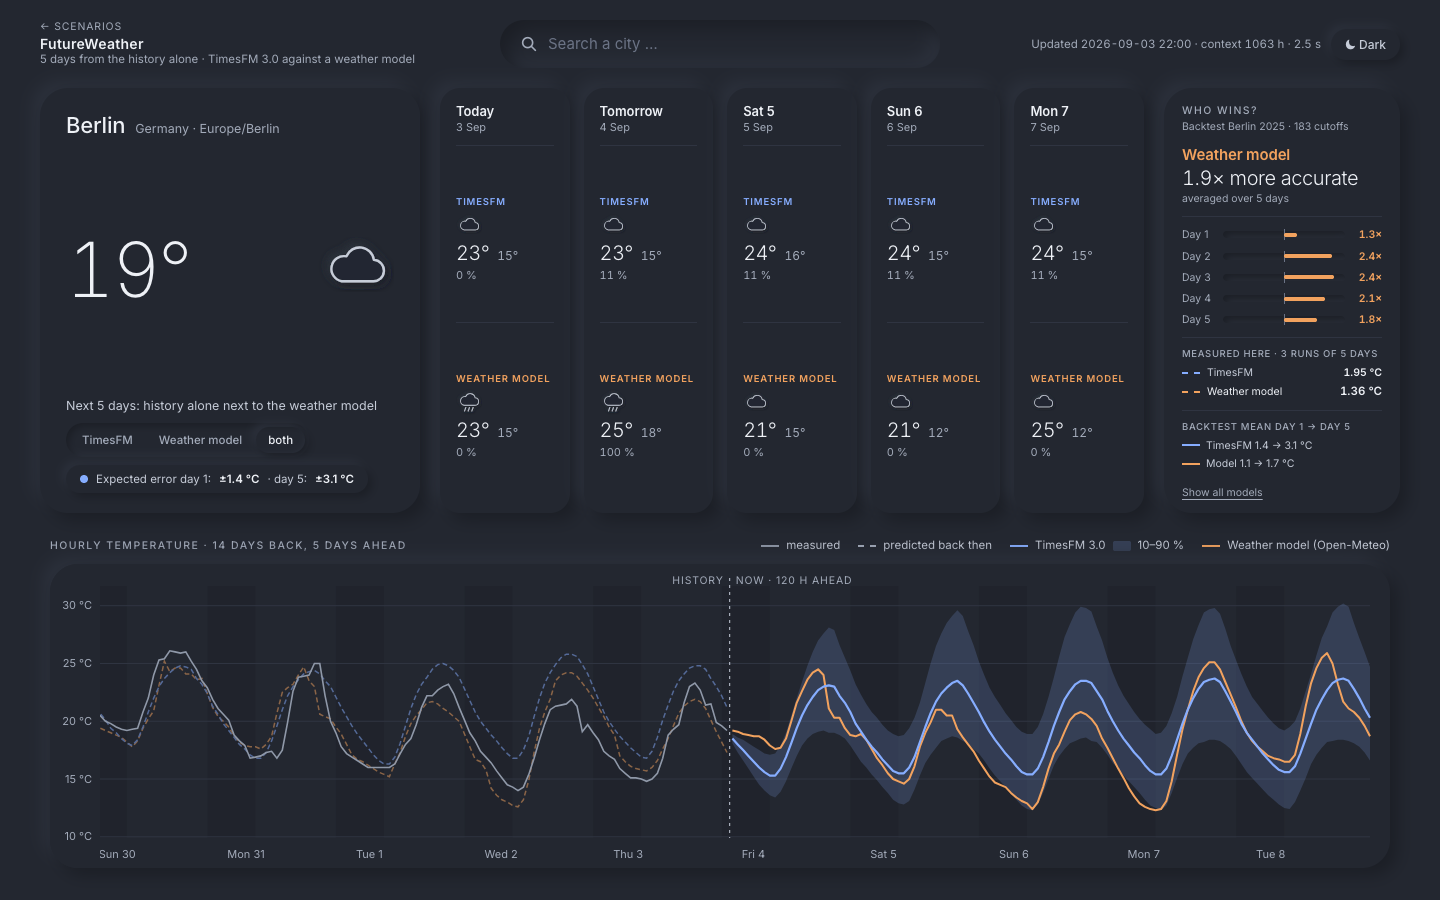
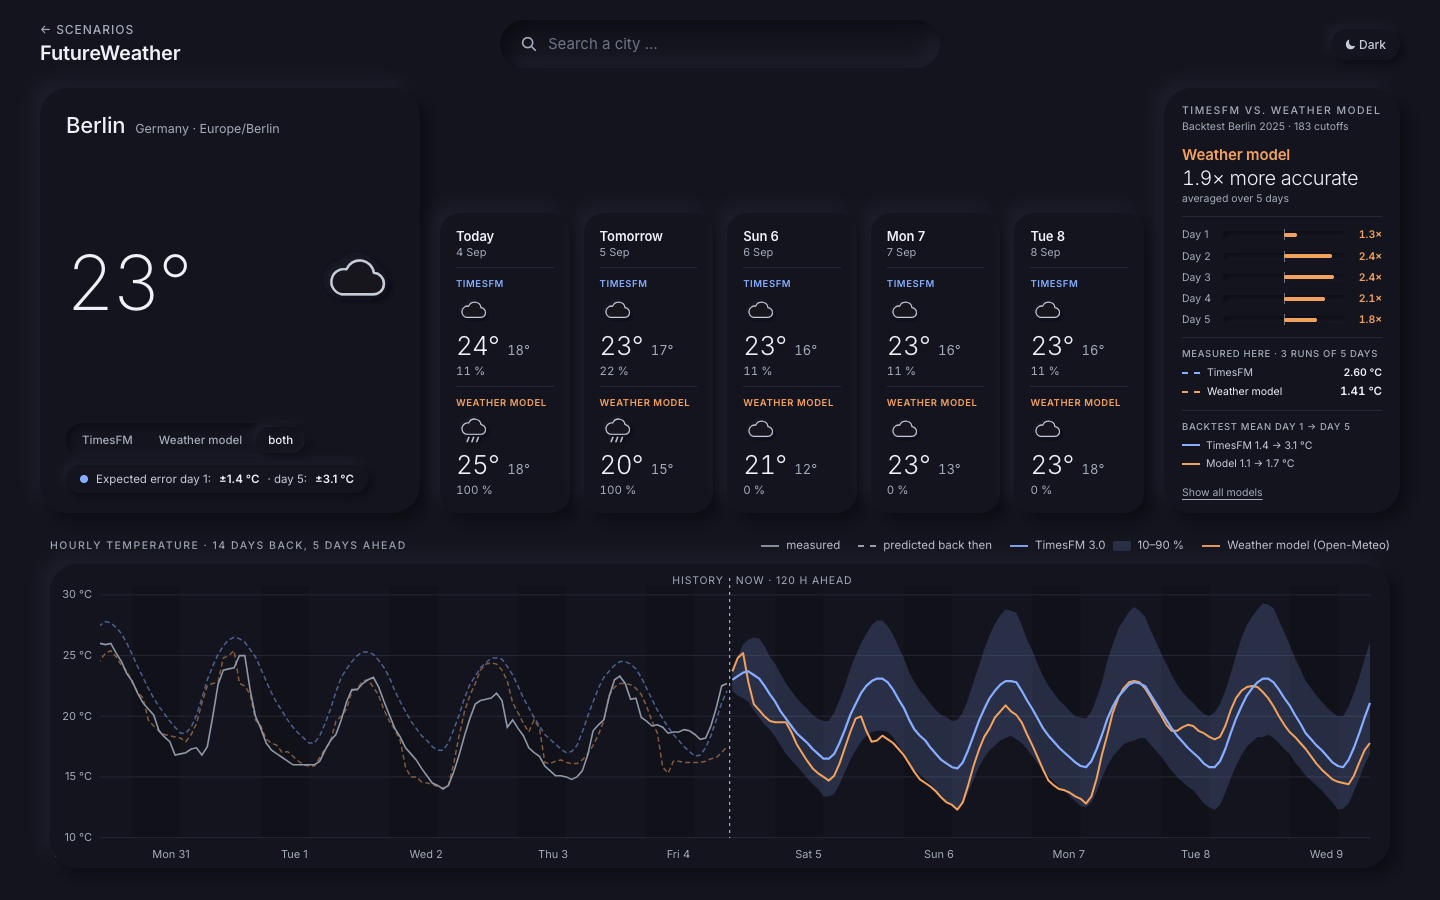
consistent brand blocks with larger back links on all pages; weather dark mode and cover card in the globe scene colour

diff --git a/src/wetter/styles/global.css b/src/wetter/styles/global.css
@@ -30,14 +30,14 @@
 @media (prefers-color-scheme: dark) {
   :root:not([data-theme='light']) {
     color-scheme: dark;
-    --bg: #232730;
-    --sh-dark: #1b1e25;
-    --sh-light: #2b303b;
+    --bg: #14141e;
+    --sh-dark: #0b0b12;
+    --sh-light: #1e1e2b;
     --text: #eef1f6;
     --text-2: #c6ccd8;
     --muted: #a3abba;
     --faint: #6b7385;
-    --grid: #2f3441;
+    --grid: #262634;
     --c-timesfm: #86adff;
     --c-timesfm-fill: rgba(134, 173, 255, 0.18);
     --c-nwp: #f2a25e;
@@ -51,14 +51,14 @@
 
 :root[data-theme='dark'] {
   color-scheme: dark;
-  --bg: #232730;
-  --sh-dark: #1b1e25;
-  --sh-light: #2b303b;
+  --bg: #14141e;
+  --sh-dark: #0b0b12;
+  --sh-light: #1e1e2b;
   --text: #eef1f6;
   --text-2: #c6ccd8;
   --muted: #a3abba;
   --faint: #6b7385;
-  --grid: #2f3441;
+  --grid: #262634;
   --c-timesfm: #86adff;
   --c-timesfm-fill: rgba(134, 173, 255, 0.18);
   --c-nwp: #f2a25e;
@@ -159,11 +159,14 @@ button {
 
 .brand .back {
   color: var(--muted);
-  font-size: 10.5px;
+  font-size: 12px;
+  font-weight: 500;
   letter-spacing: 0.08em;
   text-transform: uppercase;
   text-decoration: none;
-  margin-bottom: 2px;
+  padding: 6px 0 4px;
+  margin: -6px 0 0;
+  align-self: flex-start;
 }
 
 .brand .back:hover {

diff --git a/src/hub/hub.css b/src/hub/hub.css
@@ -208,7 +208,7 @@ body {
 
 /* --- 03 weather: neumorphic, dark palette of the weather page --- */
 .tile.weather {
-  background: #232730;
+  background: #14141e;
   color: #eef1f6;
   border: 1px solid rgba(255, 255, 255, 0.08);
 }
@@ -228,7 +228,7 @@ body {
 }
 
 .tile.weather .open {
-  border-color: #2f3441;
+  border-color: #262634;
 }
 
 .wcard {
@@ -238,8 +238,8 @@ body {
   justify-content: space-between;
   padding: 22px 26px;
   border-radius: 24px;
-  background: #232730;
-  box-shadow: 8px 8px 16px #1b1e25, -8px -8px 16px #2b303b;
+  background: #14141e;
+  box-shadow: 8px 8px 16px #0b0b12, -8px -8px 16px #1e1e2b;
 }
 
 .wtemp {
@@ -254,7 +254,7 @@ body {
   width: 72px;
   height: 72px;
   color: #c6ccd8;
-  filter: drop-shadow(3px 3px 4px #1b1e25) drop-shadow(-3px -3px 4px #2b303b);
+  filter: drop-shadow(3px 3px 4px #0b0b12) drop-shadow(-3px -3px 4px #1e1e2b);
 }
 
 .wband {

diff --git a/src/strom/styles/global.css b/src/strom/styles/global.css
@@ -72,14 +72,28 @@ button {
   line-height: 1.3;
 }
 
+.corner .brand {
+  display: flex;
+  flex-direction: column;
+  line-height: 1.2;
+}
+
 .corner .back {
-  display: block;
   color: var(--muted);
-  font-size: 10.5px;
+  font-size: 12px;
+  font-weight: 500;
   letter-spacing: 0.08em;
   text-transform: uppercase;
   text-decoration: none;
-  margin-bottom: 4px;
+  padding: 6px 0 4px;
+  margin: -6px 0 0;
+  align-self: flex-start;
+}
+
+.corner .name {
+  font-size: 20px;
+  font-weight: 600;
+  letter-spacing: -0.01em;
 }
 
 .corner .back:hover {

diff --git a/src/strom/App.tsx b/src/strom/App.tsx
@@ -24,10 +24,9 @@ function Frame({ region, range, children }: { region: string; range: string; chi
   return (
     <div className="frame">
       <div className="corner">
-        <div>
+        <div className="brand">
           <a className="back" href="./">← Scenarios</a>
-          <div className="l1">FutureGrid</div>
-          <div className="l2">Load Forecast Benchmark</div>
+          <div className="name">FutureGrid</div>
         </div>
         <div className="right">
           <div className="l1">

diff --git a/src/erdbeben/styles/global.css b/src/erdbeben/styles/global.css
@@ -97,10 +97,13 @@ select {
   color: var(--muted);
   text-decoration: none;
   white-space: nowrap;
-  font-size: 10.5px;
+  font-size: 12px;
+  font-weight: 500;
   letter-spacing: 0.08em;
   text-transform: uppercase;
-  margin-bottom: 2px;
+  padding: 6px 0 4px;
+  margin: -6px 0 0;
+  align-self: flex-start;
 }
 
 .topbar .back:hover {
